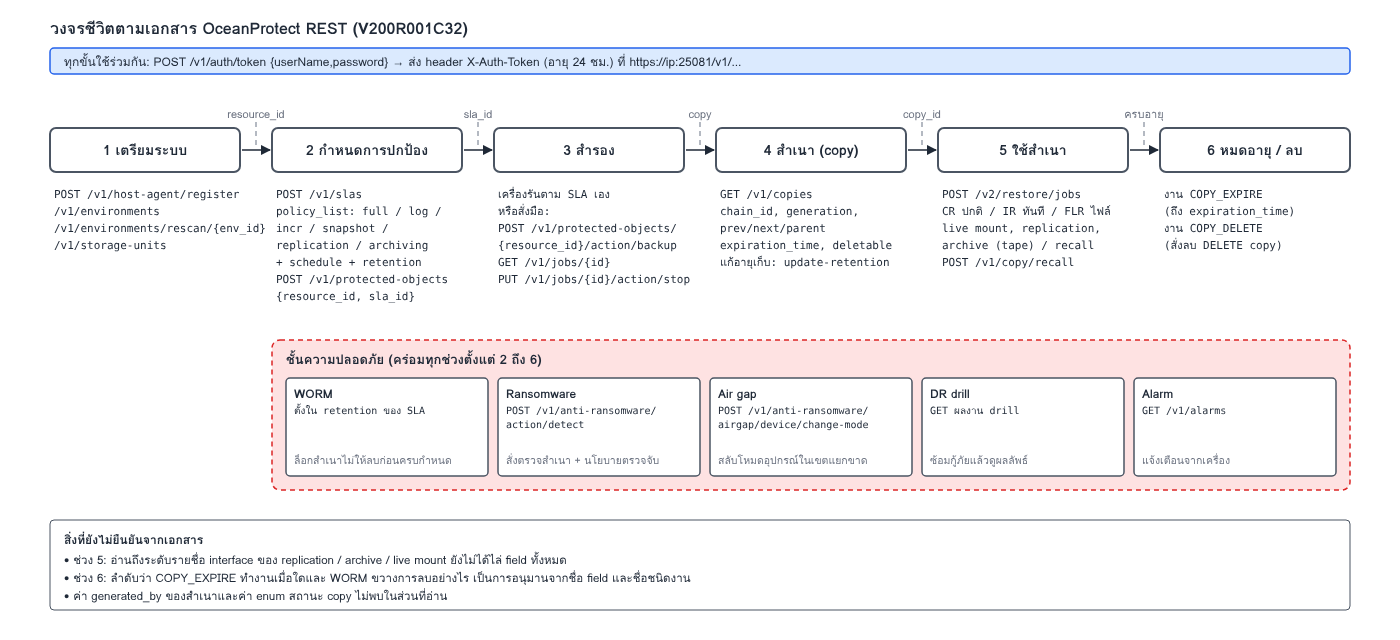
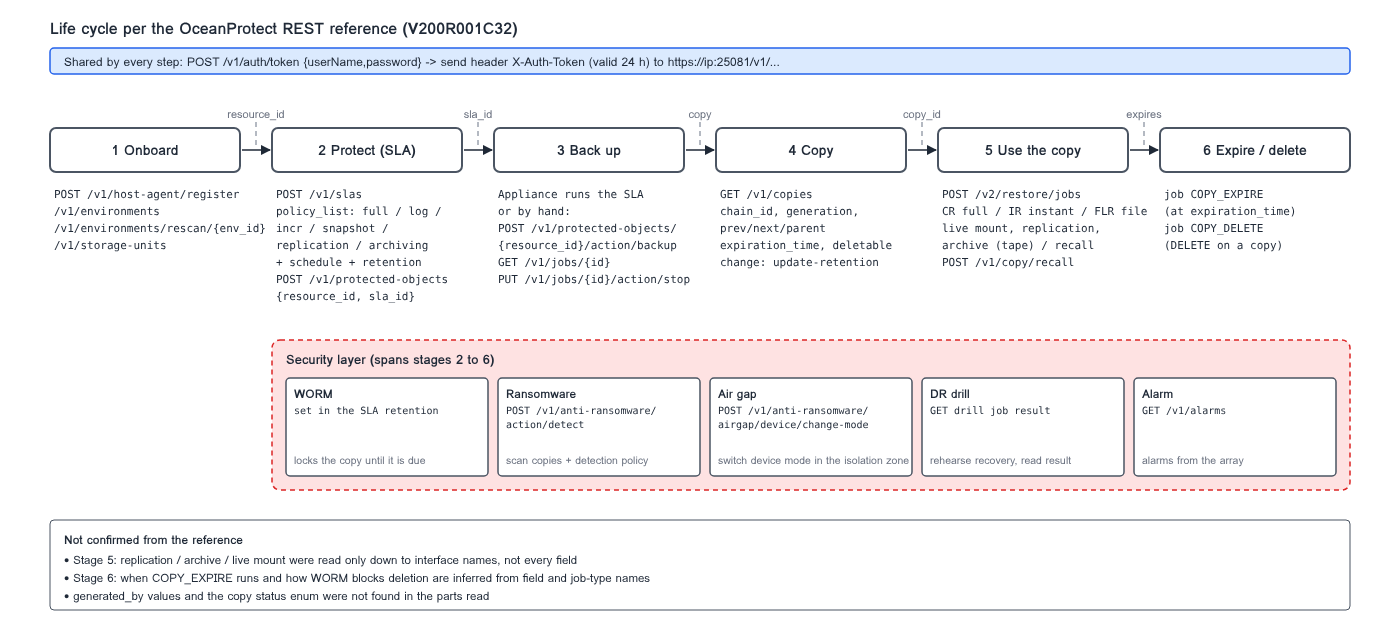
Translate life cycle diagrams and summary to English
Claude-Session: https://claude.ai/code/session_01CshFUEGVeBhb5PaucBz2TA

diff --git a/docs/lifecycle.md b/docs/lifecycle.md
@@ -1,39 +1,39 @@
-# วงจรชีวิตของ OceanProtect ตามเอกสาร REST API
+# OceanProtect life cycle per the REST reference
 
-สรุปจากเอกสาร *OceanProtect Appliance V200R001C32 REST Interface Reference* ว่า API รองรับอะไรบ้าง
-และ CMP ทำไปถึงไหนแล้ว (ภาพทั้งหมดสร้างจาก `docs/diagrams/*.svg`)
+Summary of the *OceanProtect Appliance V200R001C32 REST Interface Reference*: what the API supports,
+and how much of it CMP covers today. The figures are generated from `docs/diagrams/*.svg`.
 
-## 1. ภาพรวม 6 ช่วง
+## 1. Six stages
 
-![ภาพรวมวงจรชีวิต](diagrams/01-lifecycle-overview.png)
+![Life-cycle overview](diagrams/01-lifecycle-overview.png)
 
-เตรียมระบบ → กำหนดการปกป้อง (SLA) → สำรอง → สำเนา → ใช้สำเนา → หมดอายุ/ลบ
-โดยมีชั้นความปลอดภัย (WORM, ransomware, air gap, DR drill) คร่อมอยู่ด้านล่าง
+Onboard, protect (SLA), back up, copy, use the copy, expire/delete. A security layer (WORM, ransomware
+detection, air gap, DR drill) spans stages 2 to 6.
 
-จุดสำคัญ: **ตารางเวลาอยู่ใน SLA ของเครื่อง** เครื่องรันเองตาม SLA
-ส่วนการสั่งสำรองด้วยมือเป็นทางเลือกเสริม
+Key point: **the schedule lives in the SLA on the appliance**. The appliance runs backups by itself;
+a manual backup call is an optional extra.
 
-## 2. สถานะของงาน (job)
+## 2. Job states
 
-![สถานะของ job](diagrams/02-job-states.png)
+![Job states](diagrams/02-job-states.png)
 
-เอกสารให้ค่าสถานะ 11 ค่า แต่ไม่ได้วาดลำดับการเปลี่ยนสถานะ ลูกศรเส้นประในภาพจึงเป็นการอนุมานของเรา
-ค่า `ABORT_FAILED` ยังไม่มีสถานะรองรับใน CMP
+The reference lists 11 job states but does not draw the transitions, so the dashed arrows are our inference.
+`ABORT_FAILED` has no CMP status yet.
 
-## 3. ชีวิตของสำเนา
+## 3. Life of a copy
 
-![ชีวิตของสำเนา](diagrams/03-copy-lifecycle.png)
+![Life of a copy](diagrams/03-copy-lifecycle.png)
 
-## 4. CMP ทำไปถึงไหน
+## 4. CMP coverage
 
-![CMP เทียบวงจรชีวิต](diagrams/04-cmp-coverage.png)
+![CMP coverage](diagrams/04-cmp-coverage.png)
 
-สีเขียวคือใช้ต่อได้ทันที สีเหลืองคือมีแล้วแต่ต้องเขียน driver ใหม่ให้ตรง API จริง สีเทาคือยังไม่มี
-ขั้นต่อไปที่ตกลงกันไว้คือสร้าง mock และ driver ใหม่บน API จริง (`/v1`, `X-Auth-Token`)
+Green: reusable as is. Amber: exists but needs a new driver for the real API. Grey: not built.
+The agreed next step is a new mock and driver on the real API (`/v1`, `X-Auth-Token`).
 
-## สิ่งที่ยังไม่ยืนยัน
+## Not confirmed
 
-- อ่านถึงระดับรายชื่อ interface ของ replication, archive, live mount, ransomware, air gap, DR drill
-- ลำดับการเปลี่ยนสถานะของ job และ copy เป็นการอนุมาน
-- ไม่พบค่า enum สถานะของ copy และค่า `generated_by` ในส่วนที่อ่าน
-- การหยุดงานใช้ `PUT /v1/jobs/{jobId}/action/stop` (ไม่ใช่ POST)
+- Replication, archive, live mount, ransomware, air gap and DR drill were read only down to interface names.
+- Job and copy transitions are inferred.
+- The copy status enum and `generated_by` values were not found in the parts read.
+- Stopping a job is `PUT /v1/jobs/{jobId}/action/stop` (not POST).
